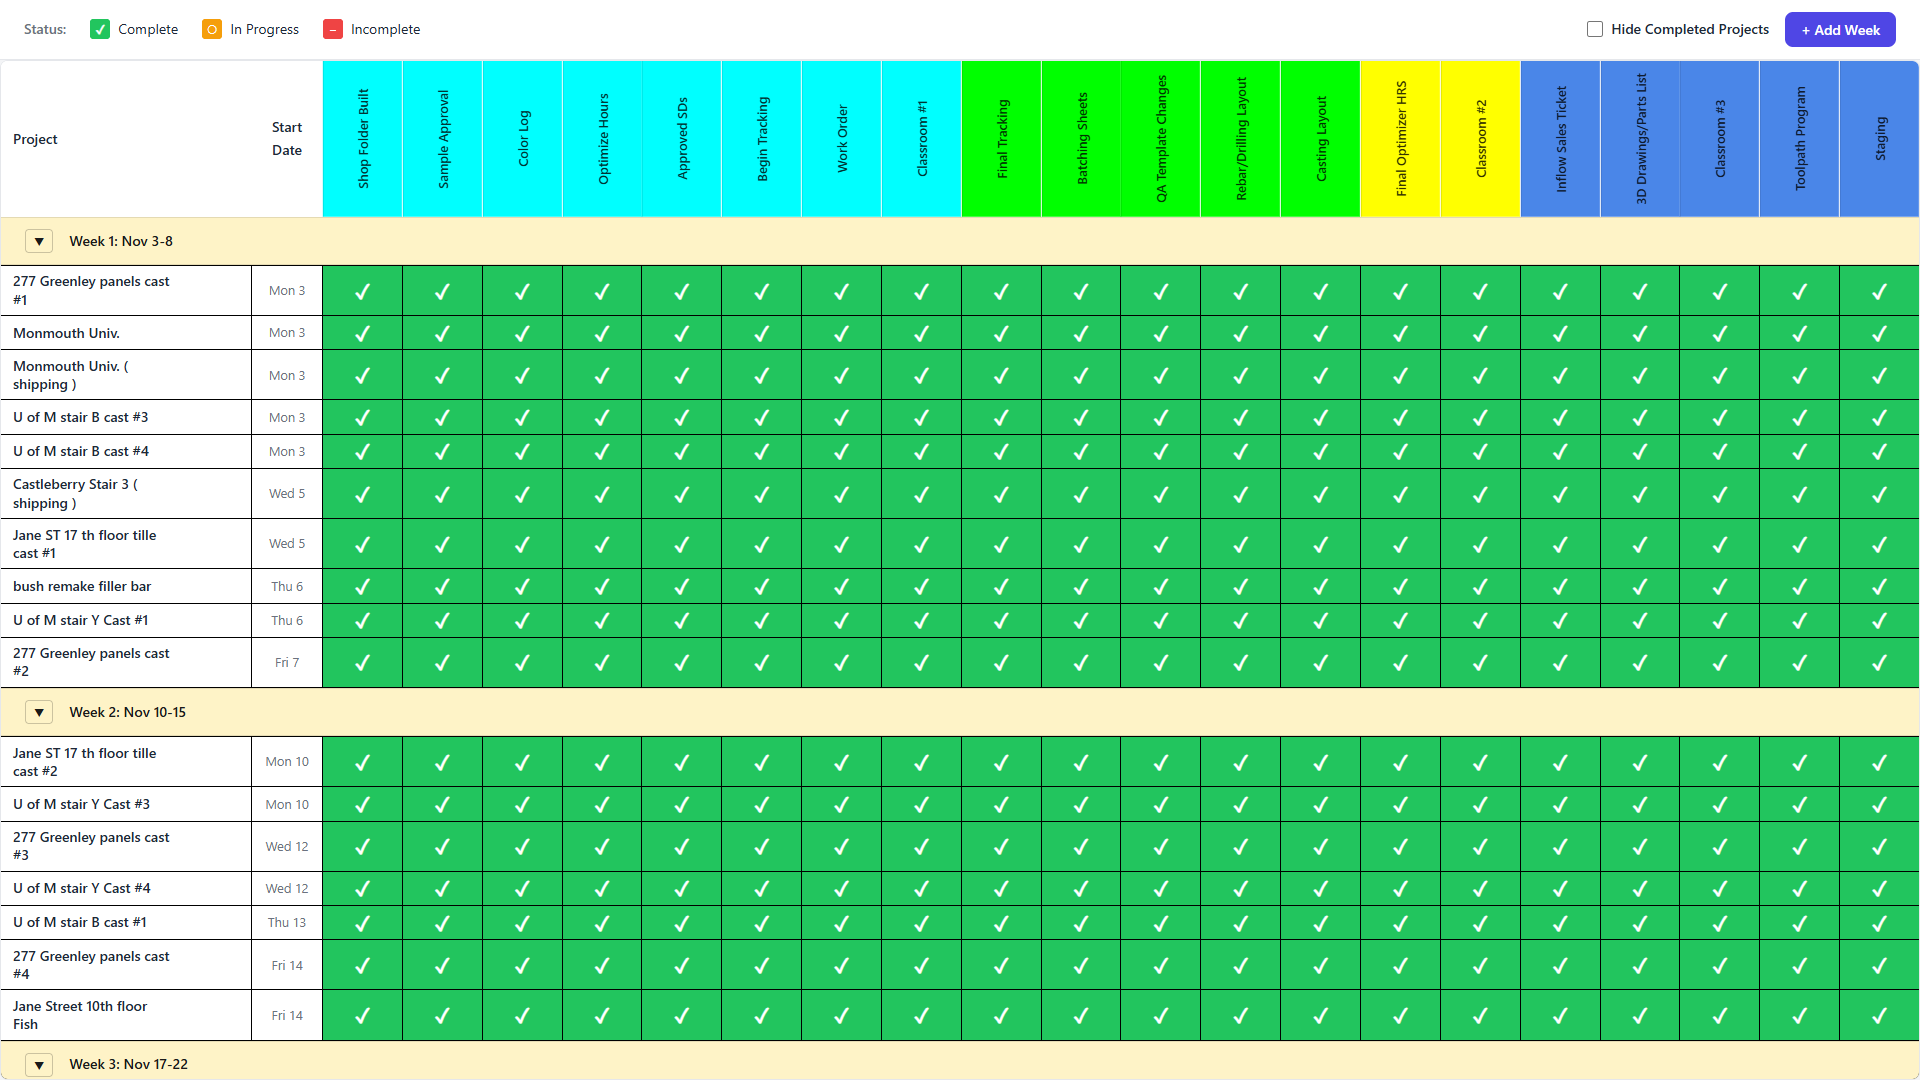
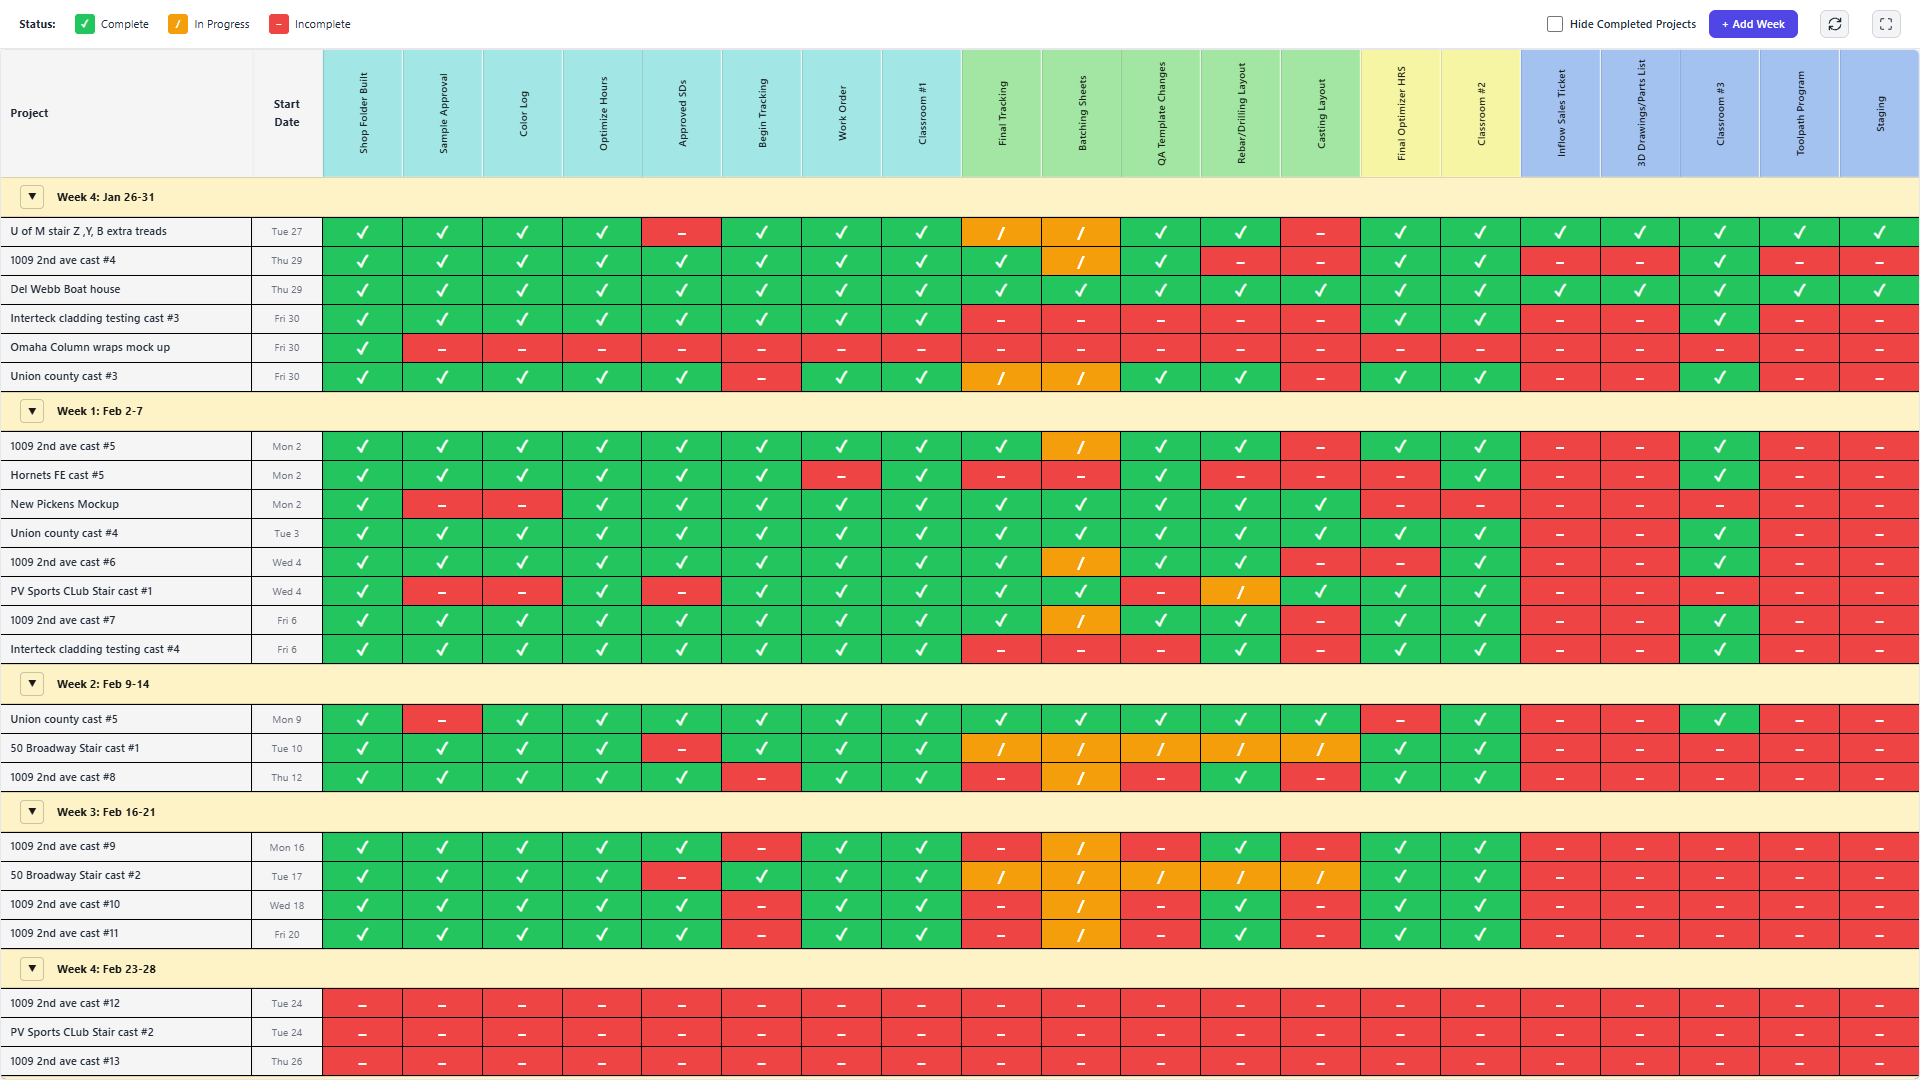
feat: Reorder releasability columns, add Labels, remove unused columns
- Move Classroom #1/#2/#3 to first three positions with lavender color
- Move Approved SDs before Sample Approval, Work Order after Shop Folder Built
- Move Final Optimizer HRS after Color Log with cyan color
- Add Labels column after Final Tracking
- Remove Begin Tracking, QA Template Changes, Optimize Hours columns
- Update grid from 20 to 18 columns

diff --git a/src/styles/releasability.css b/src/styles/releasability.css
@@ -37,16 +37,16 @@
   --tracking-1-color: #c4a3f0;   /* Classroom #2 - Lavender */
   --tracking-2-color: #c4a3f0;   /* Classroom #3 - Lavender */
   --tracking-3-color: #a3e6e6;   /* Shop Folder Built - Softer cyan */
-  --tracking-4-color: #a3e6e6;   /* Approved SDs */
-  --tracking-5-color: #a3e6e6;   /* Sample Approval */
-  --tracking-6-color: #a3e6e6;   /* Color Log */
-  --tracking-7-color: #a3e6e6;   /* Optimize Hours */
-  --tracking-8-color: #a3e6e6;   /* Work Order */
+  --tracking-4-color: #a3e6e6;   /* Work Order */
+  --tracking-5-color: #a3e6e6;   /* Approved SDs */
+  --tracking-6-color: #a3e6e6;   /* Sample Approval */
+  --tracking-7-color: #a3e6e6;   /* Color Log */
+  --tracking-8-color: #a3e6e6;   /* Final Optimizer HRS */
   --tracking-9-color: #a3e6a3;   /* Final Tracking - Softer green */
-  --tracking-10-color: #a3e6a3;  /* Batching Sheets */
-  --tracking-11-color: #a3e6a3;  /* Rebar/Drilling Layout */
-  --tracking-12-color: #a3e6a3;  /* Casting Layout */
-  --tracking-13-color: #f5f5a3;  /* Final Optimizer HRS - Softer yellow */
+  --tracking-10-color: #a3e6a3;  /* Labels */
+  --tracking-11-color: #a3e6a3;  /* Batching Sheets */
+  --tracking-12-color: #a3e6a3;  /* Rebar/Drilling Layout */
+  --tracking-13-color: #a3e6a3;  /* Casting Layout */
   --tracking-14-color: #a3c2f0;  /* Inflow Sales Ticket - Softer blue */
   --tracking-15-color: #a3c2f0;  /* 3D Drawings/Parts List */
   --tracking-16-color: #a3c2f0;  /* Toolpath Program */
@@ -584,16 +584,16 @@ html {
 .tracking-item-header[data-tracking-index="1"] { background-color: var(--tracking-1-color); }   /* Classroom #2 */
 .tracking-item-header[data-tracking-index="2"] { background-color: var(--tracking-2-color); }   /* Classroom #3 */
 .tracking-item-header[data-tracking-index="3"] { background-color: var(--tracking-3-color); }   /* Shop Folder Built */
-.tracking-item-header[data-tracking-index="4"] { background-color: var(--tracking-4-color); }   /* Approved SDs */
-.tracking-item-header[data-tracking-index="5"] { background-color: var(--tracking-5-color); }   /* Sample Approval */
-.tracking-item-header[data-tracking-index="6"] { background-color: var(--tracking-6-color); }   /* Color Log */
-.tracking-item-header[data-tracking-index="7"] { background-color: var(--tracking-7-color); }   /* Optimize Hours */
-.tracking-item-header[data-tracking-index="8"] { background-color: var(--tracking-8-color); }   /* Work Order */
+.tracking-item-header[data-tracking-index="4"] { background-color: var(--tracking-4-color); }   /* Work Order */
+.tracking-item-header[data-tracking-index="5"] { background-color: var(--tracking-5-color); }   /* Approved SDs */
+.tracking-item-header[data-tracking-index="6"] { background-color: var(--tracking-6-color); }   /* Sample Approval */
+.tracking-item-header[data-tracking-index="7"] { background-color: var(--tracking-7-color); }   /* Color Log */
+.tracking-item-header[data-tracking-index="8"] { background-color: var(--tracking-8-color); }   /* Final Optimizer HRS */
 .tracking-item-header[data-tracking-index="9"] { background-color: var(--tracking-9-color); }   /* Final Tracking */
-.tracking-item-header[data-tracking-index="10"] { background-color: var(--tracking-10-color); } /* Batching Sheets */
-.tracking-item-header[data-tracking-index="11"] { background-color: var(--tracking-11-color); } /* Rebar/Drilling Layout */
-.tracking-item-header[data-tracking-index="12"] { background-color: var(--tracking-12-color); } /* Casting Layout */
-.tracking-item-header[data-tracking-index="13"] { background-color: var(--tracking-13-color); } /* Final Optimizer HRS */
+.tracking-item-header[data-tracking-index="10"] { background-color: var(--tracking-10-color); } /* Labels */
+.tracking-item-header[data-tracking-index="11"] { background-color: var(--tracking-11-color); } /* Batching Sheets */
+.tracking-item-header[data-tracking-index="12"] { background-color: var(--tracking-12-color); } /* Rebar/Drilling Layout */
+.tracking-item-header[data-tracking-index="13"] { background-color: var(--tracking-13-color); } /* Casting Layout */
 .tracking-item-header[data-tracking-index="14"] { background-color: var(--tracking-14-color); } /* Inflow Sales Ticket */
 .tracking-item-header[data-tracking-index="15"] { background-color: var(--tracking-15-color); } /* 3D Drawings/Parts List */
 .tracking-item-header[data-tracking-index="16"] { background-color: var(--tracking-16-color); } /* Toolpath Program */

diff --git a/src/config/releasability-config.js b/src/config/releasability-config.js
@@ -64,16 +64,16 @@ export const TRACKING_ITEMS = [
   'Classroom #2',
   'Classroom #3',
   'Shop Folder Built',
+  'Work Order',
   'Approved SDs',
   'Sample Approval',
   'Color Log',
-  'Optimize Hours',
-  'Work Order',
+  'Final Optimizer HRS',
   'Final Tracking',
+  'Labels',
   'Batching Sheets',
   'Rebar/Drilling Layout',
   'Casting Layout',
-  'Final Optimizer HRS',
   'Inflow Sales Ticket',
   '3D Drawings/Parts List',
   'Toolpath Program',